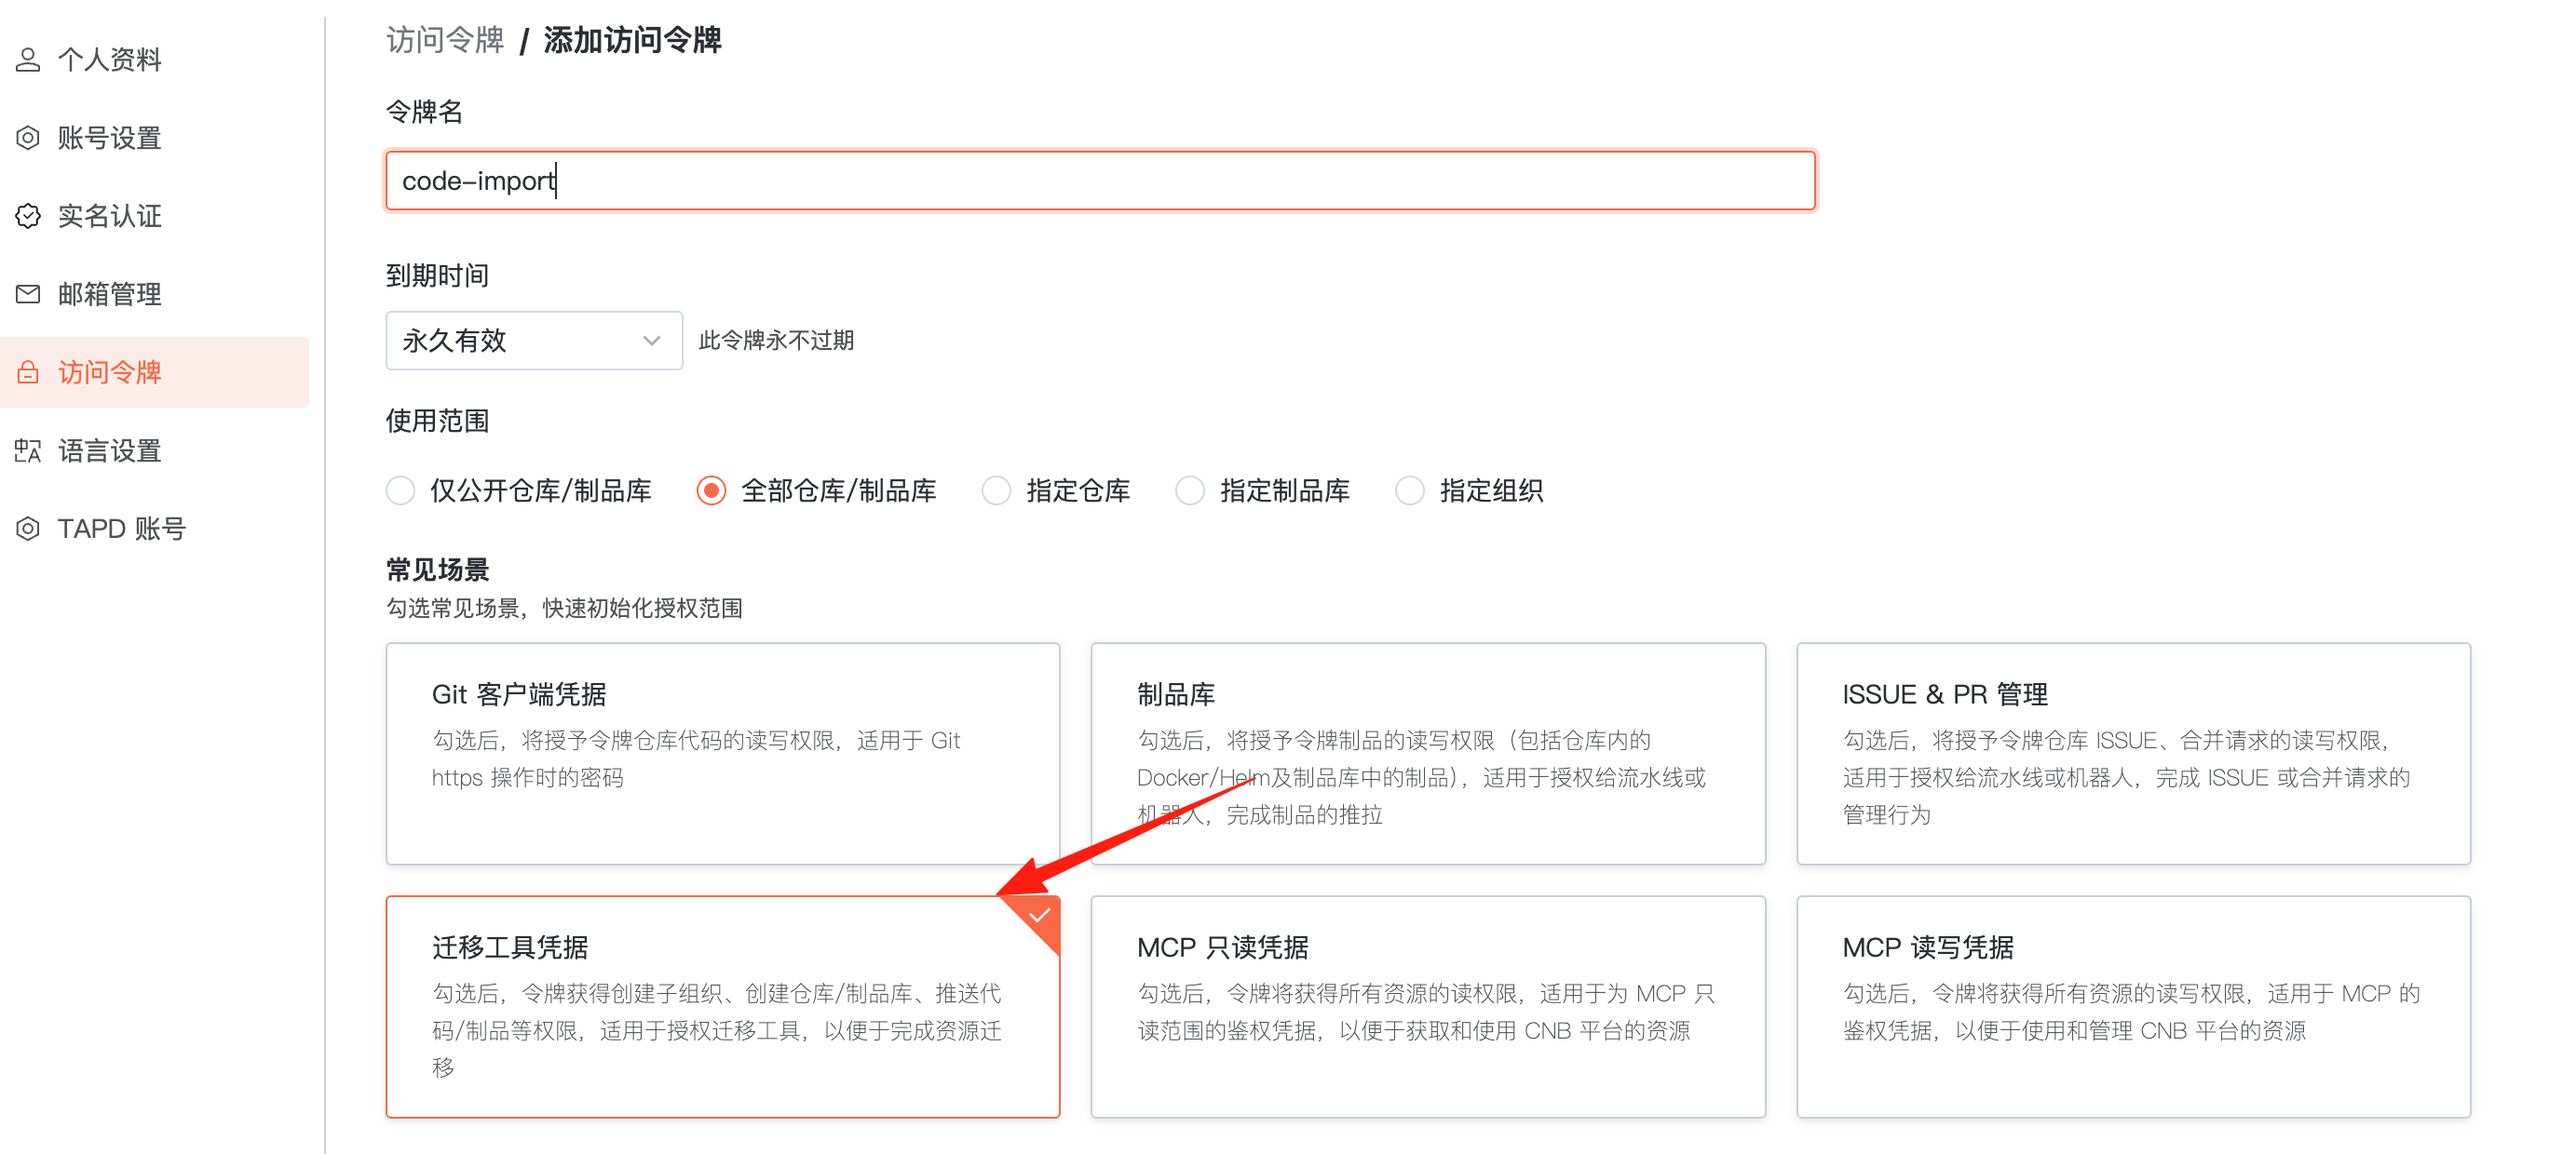
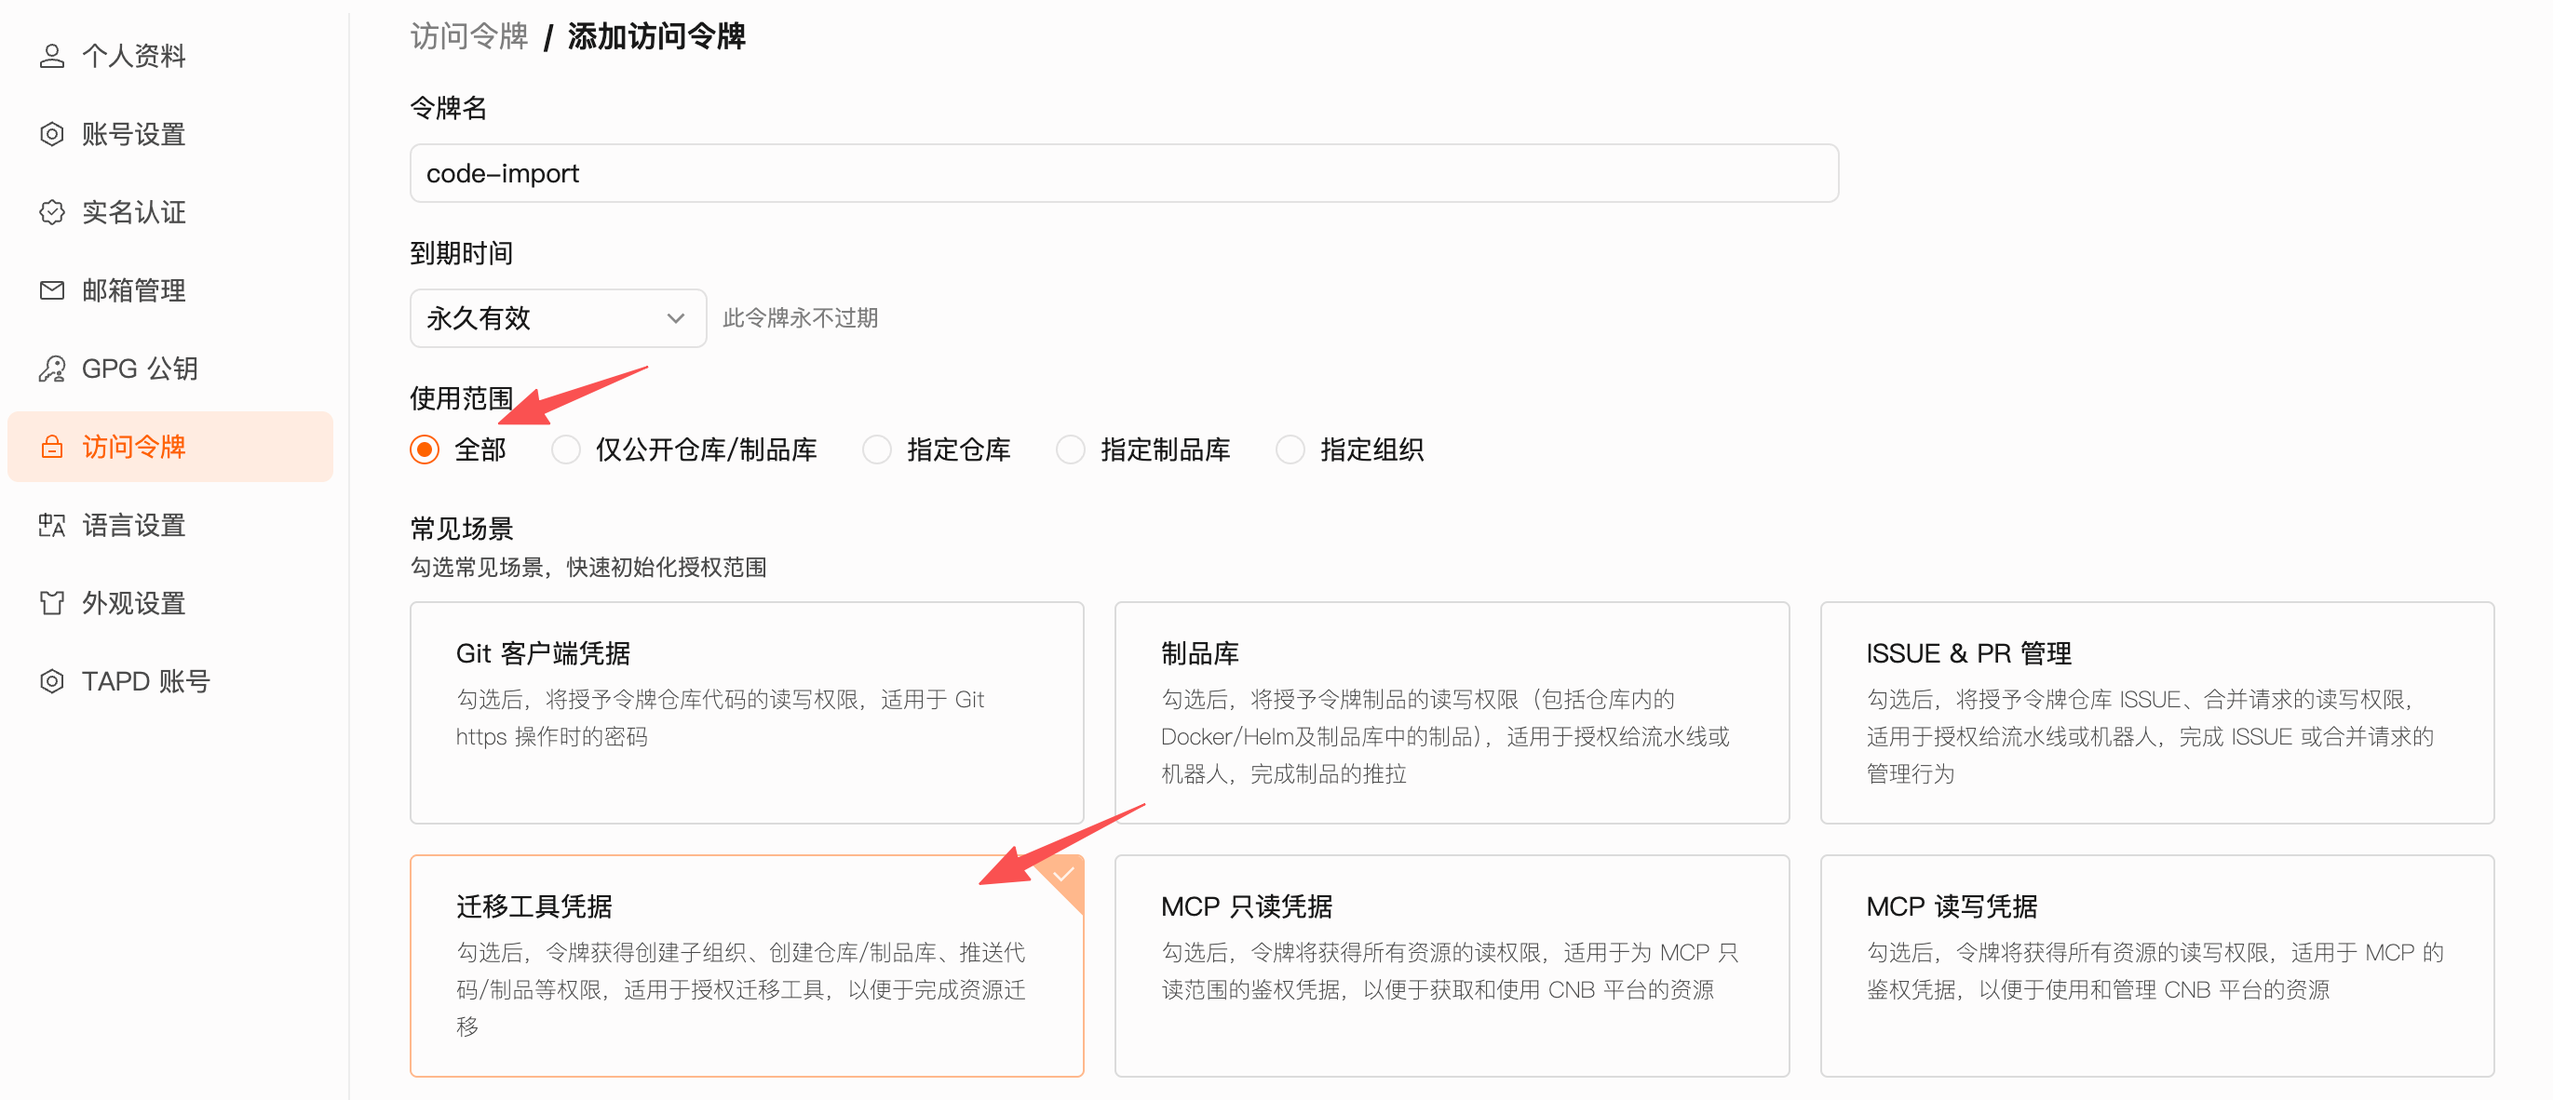
docs: 更新CNB访问令牌创建说明，添加过期时间和使用范围配置

diff --git a/doc/ready.md b/doc/ready.md
@@ -15,7 +15,9 @@
 ⚠ tips : 一年只能创建一个
 
 ## 3. 创建 CNB 访问令牌
-权限要求: 常见场景勾选 `迁移工具凭据` ，即可快速完成授权。  
-创建地址: https://cnb.cool/profile/token
+过期时间：按需选择  
+使用范围：全部仓库  
+常见场景：勾选 `迁移工具凭据` ，即可快速完成授权。  
+创建地址：https://cnb.cool/profile/token
 
 ![img.png](../img/ready_3.png)
